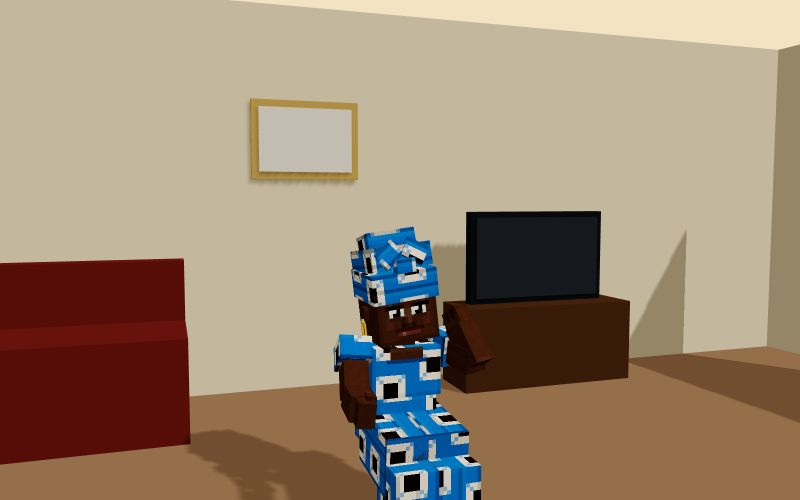
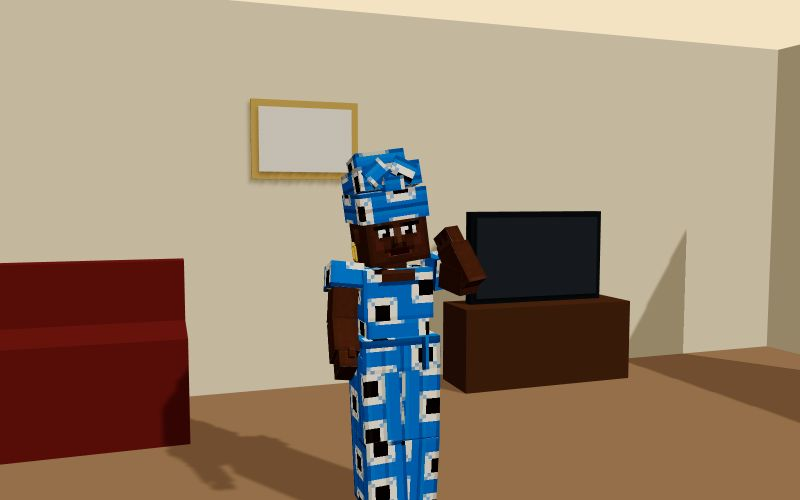
Prologues : les 25 histoires, cadrages corrigés, vérification des voix
Claude-Session: https://claude.ai/code/session_01TvyuWuUc8BQFYoka3XjMZQ

Changed region(s): [[0.375, 0.3, 0.625, 1.0], [0.1875, 0.75, 0.375, 1.0], [0.3125, 0.87, 0.375, 0.9]]

diff --git a/README.md b/README.md
@@ -152,7 +152,7 @@ Une démo vidéo de 3 minutes (inscription, création du perso, mariage dans la 
 - **Les banques et les braquages** (`backend/internal/game/braquage.go`, `backend/internal/sims/braquage.go`, `backend/internal/world/banques.go`, migration `107_sim_braquages.sql`, `web/src/components/defi/Braquage.tsx`, `Fuite.tsx`) : 10 banques du jeu (noms inventés, placées sur de vraies agences d'après OpenStreetMap : Plateau, Cocody, Yopougon, Adjamé, Abobo, Treichville, Marcory, Koumassi), avec le guichet, le distributeur, le conseiller. Un perso adulte peut **braquer la caisse** de presque tous les commerces (boutique, station, pharmacie, maquis, restaurant, marché, centre commercial, cinéma, boîte, hôtel, barbier, salon, couture, salle de jeux, karting), seul, une fois par jour ; jamais une école, un lieu de culte, un hôpital, une crèche, un orphelinat, une maison, un commissariat ou un bâtiment public. **La banque se prépare**, comme un gros coup : repérer les lieux (en journée, valable 3 jours), préparer le matériel (4 000 Djai), avoir une équipe (au moins deux gars de ta bande ou amis proches, trois au plus), puis le jour J. Chaque braquage se joue : **la fuite**, un jeu à elle (les ruelles la nuit vues d'en haut, les lampes de la police à éviter, les billets tombés à ramasser, la moto à rejoindre) ; à la banque, **le coffre** d'abord (la molette en rythme). La police t'attrape ou non selon le lieu, l'heure (la nuit est plus calme), le commissariat le plus proche, ton casier, si tu es déjà recherché·e, le plan pour une banque, et ton score (jamais moins de 8 %, jamais plus de 92 %). Réussi : le butin (dans les plafonds du jour, `braquage` 6 000 et `banque` 15 000, comptés dans le total, la Djai étant vendue en vrai) et recherché·e pendant 6 h. Attrapé·e : une amende, une ligne au casier, et la prison. Mise à jour « Les banques et les braquages » (`braquages`), fermée au départ.
 - **La prison à la MACA** (`backend/internal/game/prison.go`, `backend/internal/sims/prison.go`, migration `108_sim_prison.sql`, `web/src/components/Prison.tsx`) : attrapé·e après un braquage, le perso ne regarde pas un compte à rebours, il **vit** à la Maison d'arrêt et de correction d'Abidjan, comme le bébé vit ses premières fois : la cantine, la promenade dans la cour, l'atelier, le parloir, le cours à la bibliothèque, la douche commune, dormir en cellule. Pour sortir, il faut faire ses **étapes** (4 pour une caisse ; le cours en plus pour une banque ou un casier chargé), puis **passer devant le juge**, qui n'est possible qu'une fois les autres faites ; l'audience finie, libéré·e. Une étape compte dès que l'activité commence, et rien ne s'arrête en prison. Pendant ce temps, pas d'autre lieu ni de taxi. Le jeu montre la carte de la MACA (les étapes en jaune, le juge verrouillé) et la puce « MACA · étapes 2/5 ».
 - **Les PNJ joueurs** (`backend/internal/sims/pnj.go`, `web/src/components/Players.tsx`, `web/src/world3d/Players.tsx`) : dans « Les joueurs ici », des PNJ qui jouent comme des joueurs, pas comme les passants de la rue : un nom d'utilisateur comme les vrais (`@aya.babi`, `@ibra_yop`…), **affiché en violet** (dans la liste et sur leur étiquette dans la rue), chacun en train de faire une vraie activité, ouverte à cette heure, dans un vrai lieu de la commune (un milkshake au Babi Burger, un film au ciné). On peut les **rejoindre** (la même chose, au même endroit), les **saluer** (« Tu salues Aya (PNJ). « Bonne arrivée ! » » et un conseil vrai sur le jeu, utile aux nouveaux) ou les **inviter** à ce qu'on fait ; pas les ajouter en ami, ni les défier. Ils marchent dans la rue ou attendent devant leur lieu comme les joueurs, et apparaissent dedans quand on y entre. **Plus vivants** : un emploi du temps qui a du sens (le marché, le bureau, le sport le matin ; le maquis à midi ; le centre commercial, la plage, le ciné l'après-midi ; le maquis, la boîte le soir ; la nuit, la plupart rentrent dormir et il n'en reste qu'un) ; ils **marchent jusqu'à leur lieu** depuis un peu plus loin dans la rue à chaque nouvelle activité, et **font coucou** quand ton perso passe à côté ; ils **se souviennent de toi** (`pnj_bonds`, migration `110_pnj_bonds.sql` : « Ah, on s'est déjà vus ? », « Encore toi, Awa ! », puis « Ma copine Awa ! ») ; et **ils t'invitent** parfois à les rejoindre (une fois sur trois, toutes les 20 minutes ; « Aya (PNJ) t'invite : prendre un milkshake »), sans redemander une fois que tu as répondu. Une troupe de 16, toujours les mêmes ; 3 par commune quand personne n'est là, 2 avec quelques joueurs, 1 au-delà ; ils changent d'activité toutes les 20 minutes, les mêmes pour tout le monde au même moment. **Jamais comptés** dans « ici » ni « en ligne ».
-- **Les prologues en film et en BD** (`web/src/components/prologue/`, `tools/voix/prologues.mjs`, `tools/prologues/panels.mjs`, `web/prologue.html`) : le début d'une histoire se regarde, en **film** (« Le film ») ou en **BD animée** (« La BD »), dans l'appli « Demandes » à côté de « Écouter ». Un seul scénario par histoire (`scenarios/<histoire>.json` : les personnages, leur look, leur voix ; puis les plans : le décor et son ambiance, qui est où et fait quoi, la caméra qui bouge, la réplique). Le **film** joue les plans en 3D avec les persos détaillés du jeu, la caméra en mouvement, le titre au début, les répliques dites et sous-titrées (le nom de qui parle), « Passer », puis « À toi de jouer ». Téléphone tenu droit : l'image en 3:4 au milieu, le texte dessous. La **BD** montre chaque plan comme une case qui arrive (un léger zoom), le narrateur dans un cadre jaune, les personnages dans des bulles, un bruit écrit en grand (« TAP… TAP… TAP… »), chaque réplique dite à son arrivée, puis la suivante toute seule (ou « Suite »). Les décors (`sets.tsx`) : le grin, la cour commune (jour, nuit, des pas sur le toit), le maquis (et le maquis maudit), la terrasse, le ciel, la chambre, la Dent de Man, la rue. **Les voix** : Lea raconte, chaque personnage a la sienne (voix françaises d'Afrique d'ElevenLabs : « le vieux », Kéké, Alimata, Fatou, Bakumba…), avec le jeu des émotions (`say` : [whispers], [laughs]…) ; `node tools/voix/prologues.mjs` les enregistre dans `public/audio/prologues/<histoire>/<plan>.mp3` (une réplique déjà dite est gardée). **Les cases de la BD** : `node tools/prologues/panels.mjs` dessine chaque plan dans `public/prologues/<histoire>/<plan>.jpg` (sinon la case est dessinée en direct). Trois histoires ont leur prologue : **La cour hantée**, **Le petit-fils du vieux Koné**, **Le défi de la Dent de Man**.
+- **Les prologues en film et en BD** (`web/src/components/prologue/`, `tools/voix/prologues.mjs`, `tools/prologues/panels.mjs`, `web/prologue.html`) : le début d'une histoire se regarde, en **film** (« Le film ») ou en **BD animée** (« La BD »), dans l'appli « Demandes » à côté de « Écouter ». Un seul scénario par histoire (`scenarios/<histoire>.json` : les personnages, leur look, leur voix ; puis les plans : le décor et son ambiance, qui est où et fait quoi, la caméra qui bouge, la réplique). Le **film** joue les plans en 3D avec les persos détaillés du jeu, la caméra en mouvement, le titre au début, les répliques dites et sous-titrées (le nom de qui parle), « Passer », puis « À toi de jouer ». Téléphone tenu droit : l'image en 3:4 au milieu, le texte dessous. La **BD** montre chaque plan comme une case qui arrive (un léger zoom), le narrateur dans un cadre jaune, les personnages dans des bulles, un bruit écrit en grand (« TAP… TAP… TAP… »), chaque réplique dite à son arrivée, puis la suivante toute seule (ou « Suite »). Les décors (`sets.tsx`) : le grin, la cour commune (jour, nuit, des pas sur le toit), le maquis (et le maquis maudit), la terrasse, le ciel, la chambre, la Dent de Man, la rue. **Les voix** : Lea raconte, chaque personnage a la sienne (voix françaises d'Afrique d'ElevenLabs : « le vieux », Kéké, Alimata, Fatou, Bakumba…), avec le jeu des émotions (`say` : [whispers], [laughs]…) ; `node tools/voix/prologues.mjs` les enregistre dans `public/audio/prologues/<histoire>/<plan>.mp3` (une réplique déjà dite est gardée). **Les cases de la BD** : `node tools/prologues/panels.mjs` dessine chaque plan dans `public/prologues/<histoire>/<plan>.jpg` (sinon la case est dessinée en direct). **Les 25 histoires ont leur prologue**, de 6 à 7 plans chacune (environ 40 à 50 secondes), avec leurs personnages et leurs voix : la cour hantée, le vieux Koné et son petit-fils, la Dent de Man, Grigri le chat, le maquis de Tantie Bintou et le maquis maudit, la finale des moins de 13 ans, Serge et Fatou et leur mariage attaché, la sauce graine de Mémé Ahou, le retour de Tonton Gilbert, les caïmans sacrés, le neveu brouteur, la lumière sur la lagune, la fausse toile de Korhogo, la voix de Bouaké, le bateau fantôme de San-Pédro, Zézé le chimpanzé, le cacao de Daloa, le bac de Fanta, le téléphone de Prisca, le roi de la manette, le prétendant d'Accra, le marathon de Pépé Yao, partir ou rester. 24 décors (`sets.tsx`, `sets2.tsx`) : en plus des premiers, le marché (tomates, pagnes, le garba sous son parasol troué, l'alloco et son chat), le terrain de foot, la lagune Ébrié (et sa lumière qui danse), la gare routière, le lac aux caïmans de Yamoussoukro, la galerie de Cocody, le port de San-Pédro, le zoo (la cage vide), la plantation de cacao (la balance du pisteur), le salon, la cuisine de la cour, la salle de jeux, le stade, l'aéroport, le commissariat, la classe. `node tools/voix/verifier-prologues.mjs` vérifie les voix en les retranscrivant, et liste celles où il manque des mots.
 - **Choisir sa prochaine histoire** (`backend/internal/game/stories.go` `StoryChoices`, `backend/internal/sims/histoires.go`, `POST /sims/{id}/histoires`, `web/src/components/ErrandsApp.tsx`) : quand aucune histoire n'est en cours, l'appli « Demandes » en propose trois au lieu d'imposer la suivante : la personne et son métier, le début de l'histoire, le nombre de chapitres, « Voyage : Man » quand elle part dans une autre ville, « 18 ans et plus ». On en commence une, les autres attendent. Les suites qu'une histoire vient de débloquer passent en tête du choix, et la personne présentée à la fin d'une histoire y apparaît (l'histoire de Tantie Bintou se débloque après celle du vieux Koné, qui t'envoie chez elle ; celle de Serge après celle de Bintou). Toujours un chapitre par jour : choisie le jour où la précédente s'est finie, la nouvelle commence le lendemain. Le serveur refuse une histoire qui n'est pas proposée, ou un choix pendant qu'une histoire est en cours.
 - **Le prologue de chaque histoire** (`backend/internal/game/stories.go` `Prologue`, `backend/internal/sims/histoires.go`, `web/src/components/ErrandsApp.tsx`) : chaque histoire commence par quelques phrases de narrateur qui posent le décor, la personne et l'enjeu (« Au grin du quartier, sous le manguier, le vieux Koné sert le thé depuis quarante ans… »). On le lit dans le choix des histoires, pour savoir dans quoi on s'embarque ; en tête de l'histoire au premier chapitre, puis replié (« Le début de l'histoire ») pour le relire ; et dans le journal, au moment où on la commence (« Nouvelle histoire : … »). Un test exige un prologue de quelques phrases pour chaque histoire.
 - **Les prologues lus par un narrateur** (`tools/voix/histoires.mjs`, `backend/cmd/prologues`, `web/src/lib/narration.ts`, `web/src/components/ErrandsApp.tsx`) : un bouton « Écouter » à côté du prologue le fait lire par une voix (« Arrêter » pendant la lecture ; une seule voix à la fois). Il n'apparaît que pour les histoires dont la voix est enregistrée, et seulement en français. **Pour enregistrer** : `ELEVENLABS_API_KEY=… node tools/voix/histoires.mjs --voice <id de la voix>` (ElevenLabs, modèle multilingue) lit chaque prologue (`go run ./cmd/prologues`), en fait un MP3 dans `web/public/audio/histoires/` et écrit `index.json`, la liste que lit le téléphone. Un prologue déjà lu est gardé (ElevenLabs facture au caractère) : `--force` les refait tous, `--only id1,id2` seulement ceux-là, après avoir changé leur texte. Les 25 prologues font environ 6 900 caractères. Par défaut, la voix de Lea (« Lea - UGC creator ») et le modèle `eleven_v4` (`--voice`, `--model` pour changer ; `eleven_v4_turbo` coûte moitié moins). **Les 25 sont enregistrés** avec Lea et `eleven_v4`, **avec des émotions** : `tools/voix/histoires-emotions.json` donne pour chaque histoire son prologue avec des indications pour la voix (`[warmly]`, `[mysterious]`, `[whispers]`, `[laughs]`…) et des pauses, et la voix est réglée plus libre et plus expressive. Le texte affiché ne change pas ; le script vérifie que ce texte dit encore les mêmes mots que le prologue, et sinon ne le lit pas (le refaire dans le JSON). De 13 à 17 s chacun, 3 Mo en tout. « Gbairai » se dit « gbèrè » et « Djai » « djè » : le script les fait dire ainsi à la voix (`say`), le texte affiché ne change pas. La vidéo TikTok de la nouveauté : `marketing/scripts/histoires.md` (`FILM=histoires`).
